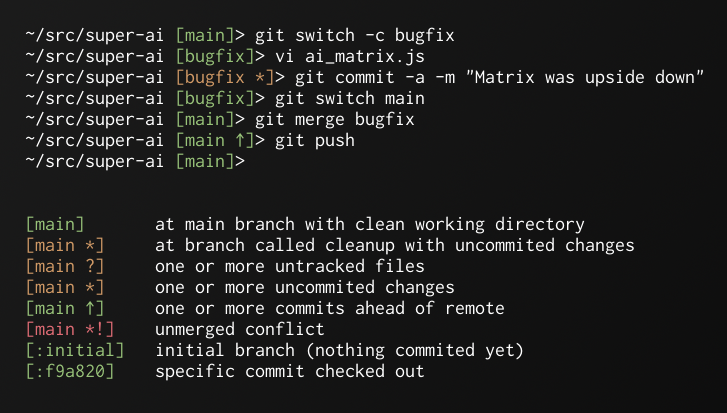
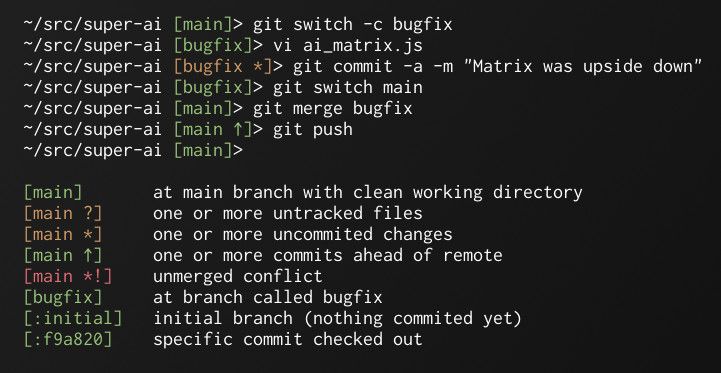
Fixed typo in screenshot.

Changed region(s): [[0.0305, 0.0295, 0.9764, 0.4424], [0.2136, 0.5013, 0.8849, 0.9437], [0.0305, 0.5013, 0.1831, 0.9437]]

diff --git a/images/make_screenshot.py b/images/make_screenshot.py
@@ -19,13 +19,12 @@ script = f"""\
     ~/src/super-ai {G}[main ↑]{N}> git push
     ~/src/super-ai {G}[main]{N}>
 
-
     {G}[main]{N}       at main branch with clean working directory
-    {Y}[main *]{N}     at branch called cleanup with uncommited changes
     {Y}[main ?]{N}     one or more untracked files
     {Y}[main *]{N}     one or more uncommited changes
     {G}[main ↑]{N}     one or more commits ahead of remote
     {R}[main *!]{N}    unmerged conflict
+    {G}[bugfix]{N}     at branch called bugfix
     {G}[:initial]{N}   initial branch (nothing commited yet)
     {G}[:f9a820]{N}    specific commit checked out
 
